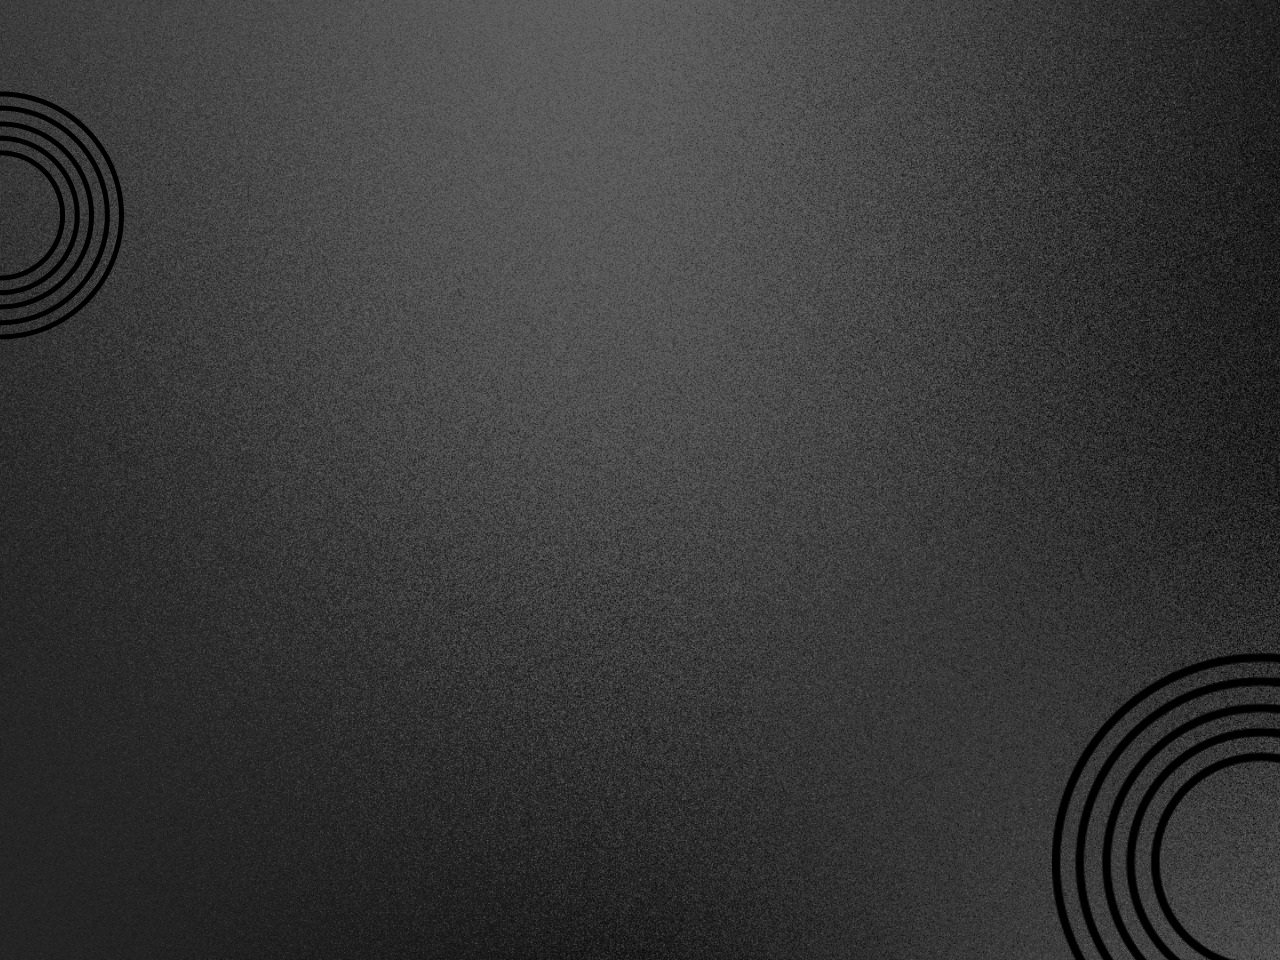
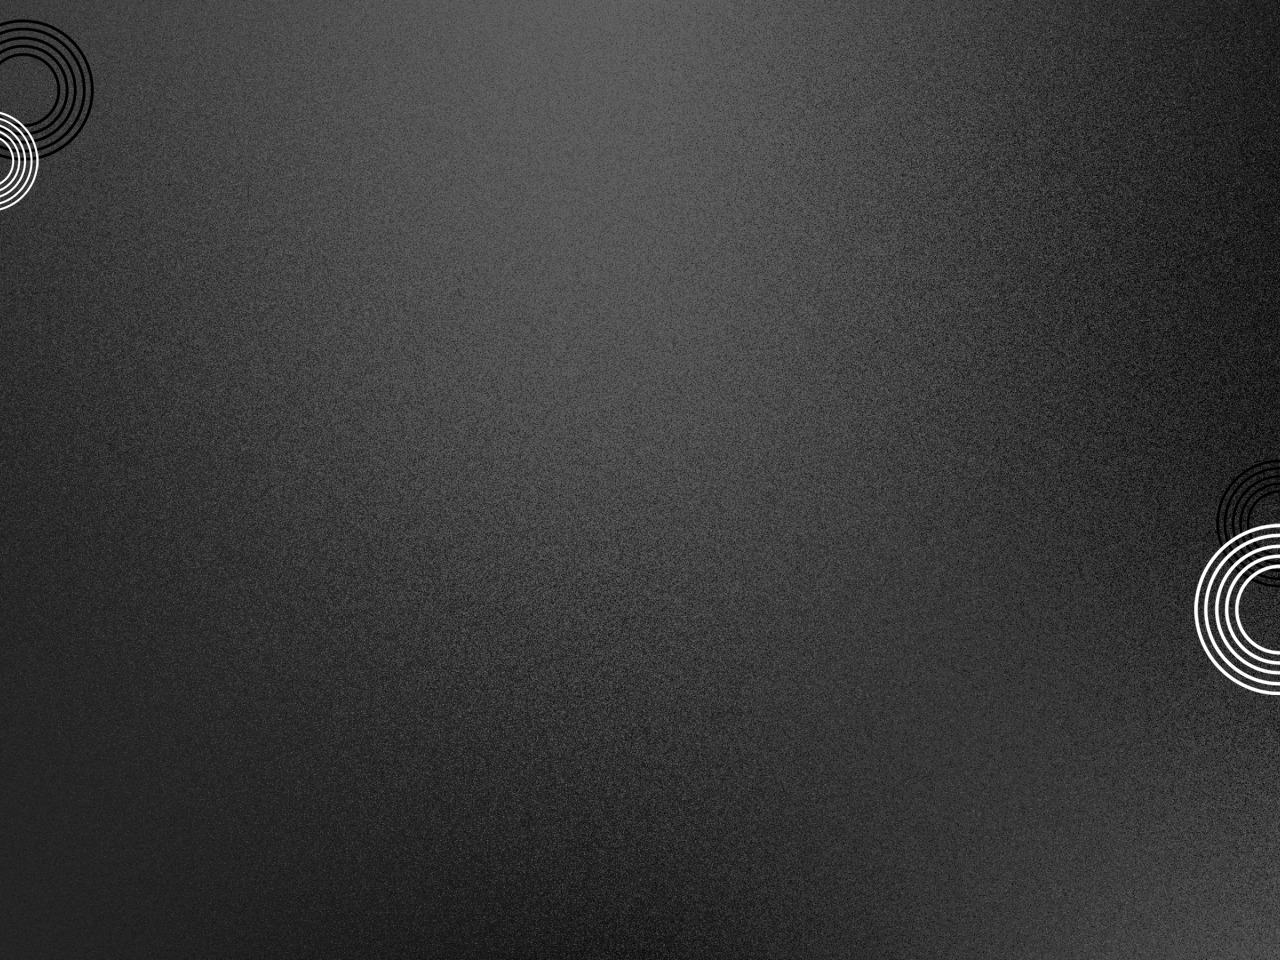
commit

Changed region(s): [[0.8125, 0.4688, 1.0, 1.0], [0.0, 0.0, 0.0938, 0.375]]

diff --git a/Fotografia.html b/Fotografia.html
@@ -19,10 +19,10 @@
 							<p><a href="home.html">Home</a></p>
 						</li>
 						<li>		
-							<p><a href="#">Login</a></p>
+							<p><a href="login.html">Login</a></p>
 						</li>
 						<li>
-							<p><a href="#">Create</a></p>
+							<p><a href="#">Opções</a></p>
 						</li>
 						<li>
 							<p><a href="HUB.html">Sair</a></p>

diff --git a/Inspiration.html b/Inspiration.html
@@ -19,10 +19,10 @@
 							<p><a href="home.html">Home</a></p>
 						</li>
 						<li>		
-							<p><a href="#">Login</a></p>
+							<p><a href="login.html">Login</a></p>
 						</li>
 						<li>
-							<p><a href="#">Create</a></p>
+							<p><a href="#">Opções</a></p>
 						</li>
 						<li>
 							<p><a href="HUB.html">Sair</a></p>

diff --git a/UX Design.html b/UX Design.html
@@ -18,10 +18,10 @@
 							<p><a href="home.html">Home</a></p>
 						</li>
 						<li>		
-							<p><a href="#">Login</a></p>
+							<p><a href="login.html">Login</a></p>
 						</li>
 						<li>
-							<p><a href="#">Create</a></p>
+							<p><a href="#">Opções</a></p>
 						</li>
 						<li>
 							<p><a href="HUB.html">Sair</a></p>

diff --git a/grafico.html b/grafico.html
@@ -19,10 +19,10 @@
 							<p><a href="home.html">Home</a></p>
 						</li>
 						<li>		
-							<p><a href="#">Login</a></p>
+							<p><a href="login.html">Login</a></p>
 						</li>
 						<li>
-							<p><a href="#">Create</a></p>
+							<p><a href="#">Opções</a></p>
 						</li>
 						<li>
 							<p><a href="HUB.html">Sair</a></p>

diff --git a/home.html b/home.html
@@ -19,10 +19,10 @@
 							<p><a href="home.html">Home</a></p>
 						</li>
 						<li>		
-							<p><a href="#">Login</a></p>
+							<p><a href="login.html">Login</a></p>
 						</li>
 						<li>
-							<p><a href="#">Create</a></p>
+							<p><a href="#">Opções</a></p>
 						</li>
 						<li>
 							<p><a href="HUB.html">Sair</a></p>

diff --git a/ilu.html b/ilu.html
@@ -19,10 +19,10 @@
 							<p><a href="home.html">Home</a></p>
 						</li>
 						<li>		
-							<p><a href="#">Login</a></p>
+							<p><a href="login.html">Login</a></p>
 						</li>
 						<li>
-							<p><a href="#">Create</a></p>
+							<p><a href="#">Opções</a></p>
 						</li>
 						<li>
 							<p><a href="HUB.html">Sair</a></p>

diff --git a/motion.html b/motion.html
@@ -19,10 +19,10 @@
 							<p><a href="home.html">Home</a></p>
 						</li>
 						<li>		
-							<p><a href="#">Login</a></p>
+							<p><a href="login.html">Login</a></p>
 						</li>
 						<li>
-							<p><a href="#">Create</a></p>
+							<p><a href="#">Opções</a></p>
 						</li>
 						<li>
 							<p><a href="HUB.html">Sair</a></p>

diff --git a/news2.html b/news2.html
@@ -18,10 +18,10 @@
 							<p><a href="home.html">Home</a></p>
 						</li>
 						<li>		
-							<p><a href="#">Login</a></p>
+							<p><a href="login.html">Login</a></p>
 						</li>
 						<li>
-							<p><a href="#">Create</a></p>
+							<p><a href="#">Opções</a></p>
 						</li>
 						<li>
 							<p><a href="HUB.html">Sair</a></p>

diff --git a/noticia.html b/noticia.html
@@ -19,10 +19,10 @@
 							<p><a href="home.html">Home</a></p>
 						</li>
 						<li>		
-							<p><a href="#">Login</a></p>
+							<p><a href="login.html">Login</a></p>
 						</li>
 						<li>
-							<p><a href="#">Create</a></p>
+							<p><a href="#">Opções</a></p>
 						</li>
 						<li>
 							<p><a href="HUB.html">Sair</a></p>

diff --git a/produto.html b/produto.html
@@ -19,10 +19,10 @@
 							<p><a href="home.html">Home</a></p>
 						</li>
 						<li>		
-							<p><a href="#">Login</a></p>
+							<p><a href="login.html">Login</a></p>
 						</li>
 						<li>
-							<p><a href="#">Create</a></p>
+							<p><a href="#">Opções</a></p>
 						</li>
 						<li>
 							<p><a href="HUB.html">Sair</a></p>

diff --git a/HUB.html b/HUB.html
@@ -19,10 +19,10 @@
 							<p><a href="home.html">Home</a></p>
 						</li>
 						<li>		
-							<p><a href="#">Login</a></p>
+							<p><a href="login.html">Login</a></p>
 						</li>
 						<li>
-							<p><a href="#">Create</a></p>
+							<p><a href="#">Opções</a></p>
 						</li>
 						
 					</ul>

diff --git a/HUB.css b/HUB.css
@@ -2,7 +2,7 @@
 
 body {
 	margin: 0;
-	background-image: url(https://img5.goodfon.com/original/1280x960/b/23/fon-tekstura-matovaia-seryi.jpg);
+	background-image: url(fundo.png);
 	background-repeat: no-repeat;
 	background-size: 100%; 
 	background-attachment: fixed;
